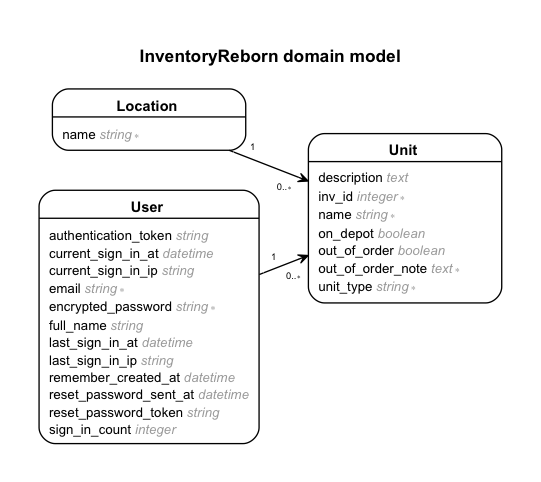
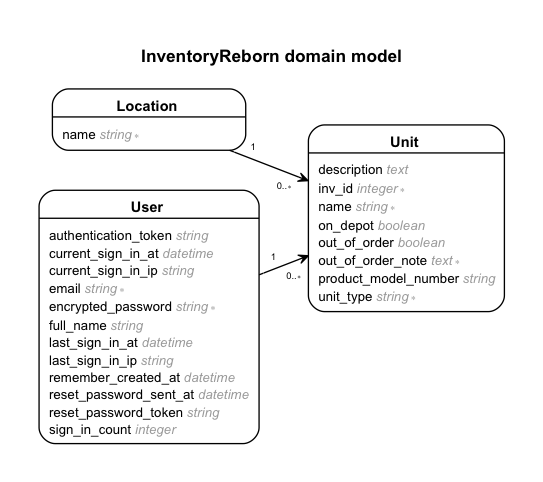
Add product_model_number to unit

diff --git a/db/schema.rb b/db/schema.rb
@@ -23,14 +23,15 @@ ActiveRecord::Schema.define(:version => 20130614115836) do
     t.string   "unit_type"
     t.integer  "inv_id"
     t.string   "name"
+    t.string   "product_model_number"
     t.text     "description"
     t.integer  "user_id"
     t.integer  "location_id"
-    t.boolean  "on_depot",          :default => false
-    t.boolean  "out_of_order",      :default => false
+    t.boolean  "on_depot",             :default => false
+    t.boolean  "out_of_order",         :default => false
     t.text     "out_of_order_note"
-    t.datetime "created_at",                           :null => false
-    t.datetime "updated_at",                           :null => false
+    t.datetime "created_at",                              :null => false
+    t.datetime "updated_at",                              :null => false
   end
 
   add_index "units", ["inv_id"], :name => "index_units_on_inv_id"

diff --git a/app/interactors/unit_saver.rb b/app/interactors/unit_saver.rb
@@ -25,7 +25,9 @@ class UnitSaver
   end
 
   def unit_params
-    @unit_params ||= @params.except(:location_id, :user_id).permit(:unit_type, :inv_id, :name,
-      :description, :on_depot, :out_of_order, :out_of_order_note)
+    @unit_params ||= @params.except(:location_id, :user_id).permit(
+      :unit_type, :inv_id, :name, :product_model_number, :description,
+      :on_depot, :out_of_order, :out_of_order_note
+    )
   end
 end

diff --git a/db/migrate/20130614115836_create_units.rb b/db/migrate/20130614115836_create_units.rb
@@ -4,6 +4,7 @@ class CreateUnits < ActiveRecord::Migration
       t.string :unit_type
       t.integer :inv_id
       t.string :name
+      t.string :product_model_number
       t.text :description
       t.integer :user_id
       t.integer :location_id

diff --git a/spec/factories/unit.rb b/spec/factories/unit.rb
@@ -4,6 +4,7 @@ FactoryGirl.define do
     sequence :inv_id
     name { Faker::Name.title }
     description 'Awesome Description'
+    product_model_number { 'V243HQ' }
     on_depot false
     out_of_order true
     out_of_order_note 'Awesome Text'
